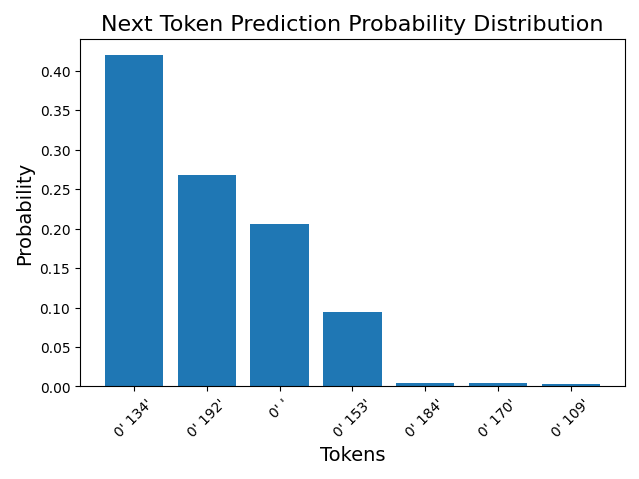
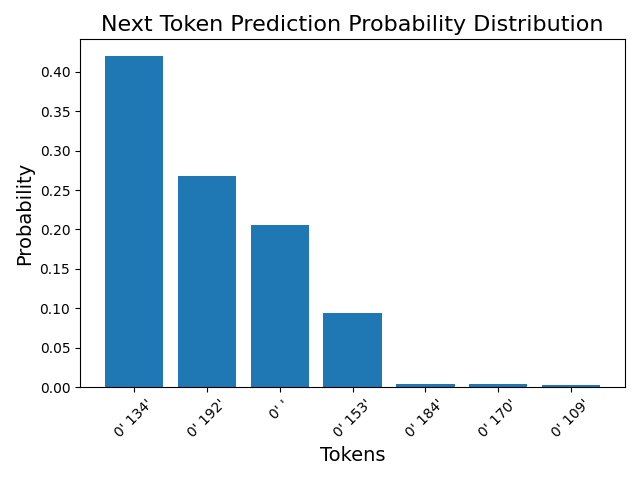
Fix bug on plots

diff --git a/utils_final.py b/utils_final.py
@@ -259,7 +259,7 @@ class AttentionVisualizer:
         attention_weights = self.model.trf_blocks[layer].att.atten_weights
 
         # Visualize attention weights for the specified head
-        attention_matrix = sum(attention_weights[head]).detach().numpy()
+        attention_matrix = attention_weights[0][head].detach().numpy()
         self._plot_attention(
             attention_matrix, labels, head, save_path, use_power_scale, gamma
         )
@@ -310,8 +310,8 @@ class AttentionVisualizer:
         plt.title(title)
 
         # Show and save plot
-        plt.show()
         plt.savefig(save_path)
+        plt.show()
         print(f"Attention weights saved to {save_path}")
 
 
@@ -522,12 +522,12 @@ def generate_text_simple(
             plt.ylabel("Probability", fontsize=14)
             plt.xticks(rotation=45)
             plt.tight_layout()
-            plt.show()
             # save plot if save_path is set
             if save_path:
                 # Show and save plot
                 fig1.savefig(save_path)
                 print(f"Attention weights saved to {save_path}")
+            plt.show()
     return idx
 
 

diff --git a/visualize_attention.py b/visualize_attention.py
@@ -114,9 +114,6 @@ def main():
         gamma=args.gamma,
     )
 
-    if args.verbose:
-        print(f"Attention visualization saved to {args.save_path}.")
-
 
 if __name__ == "__main__":
     main()
